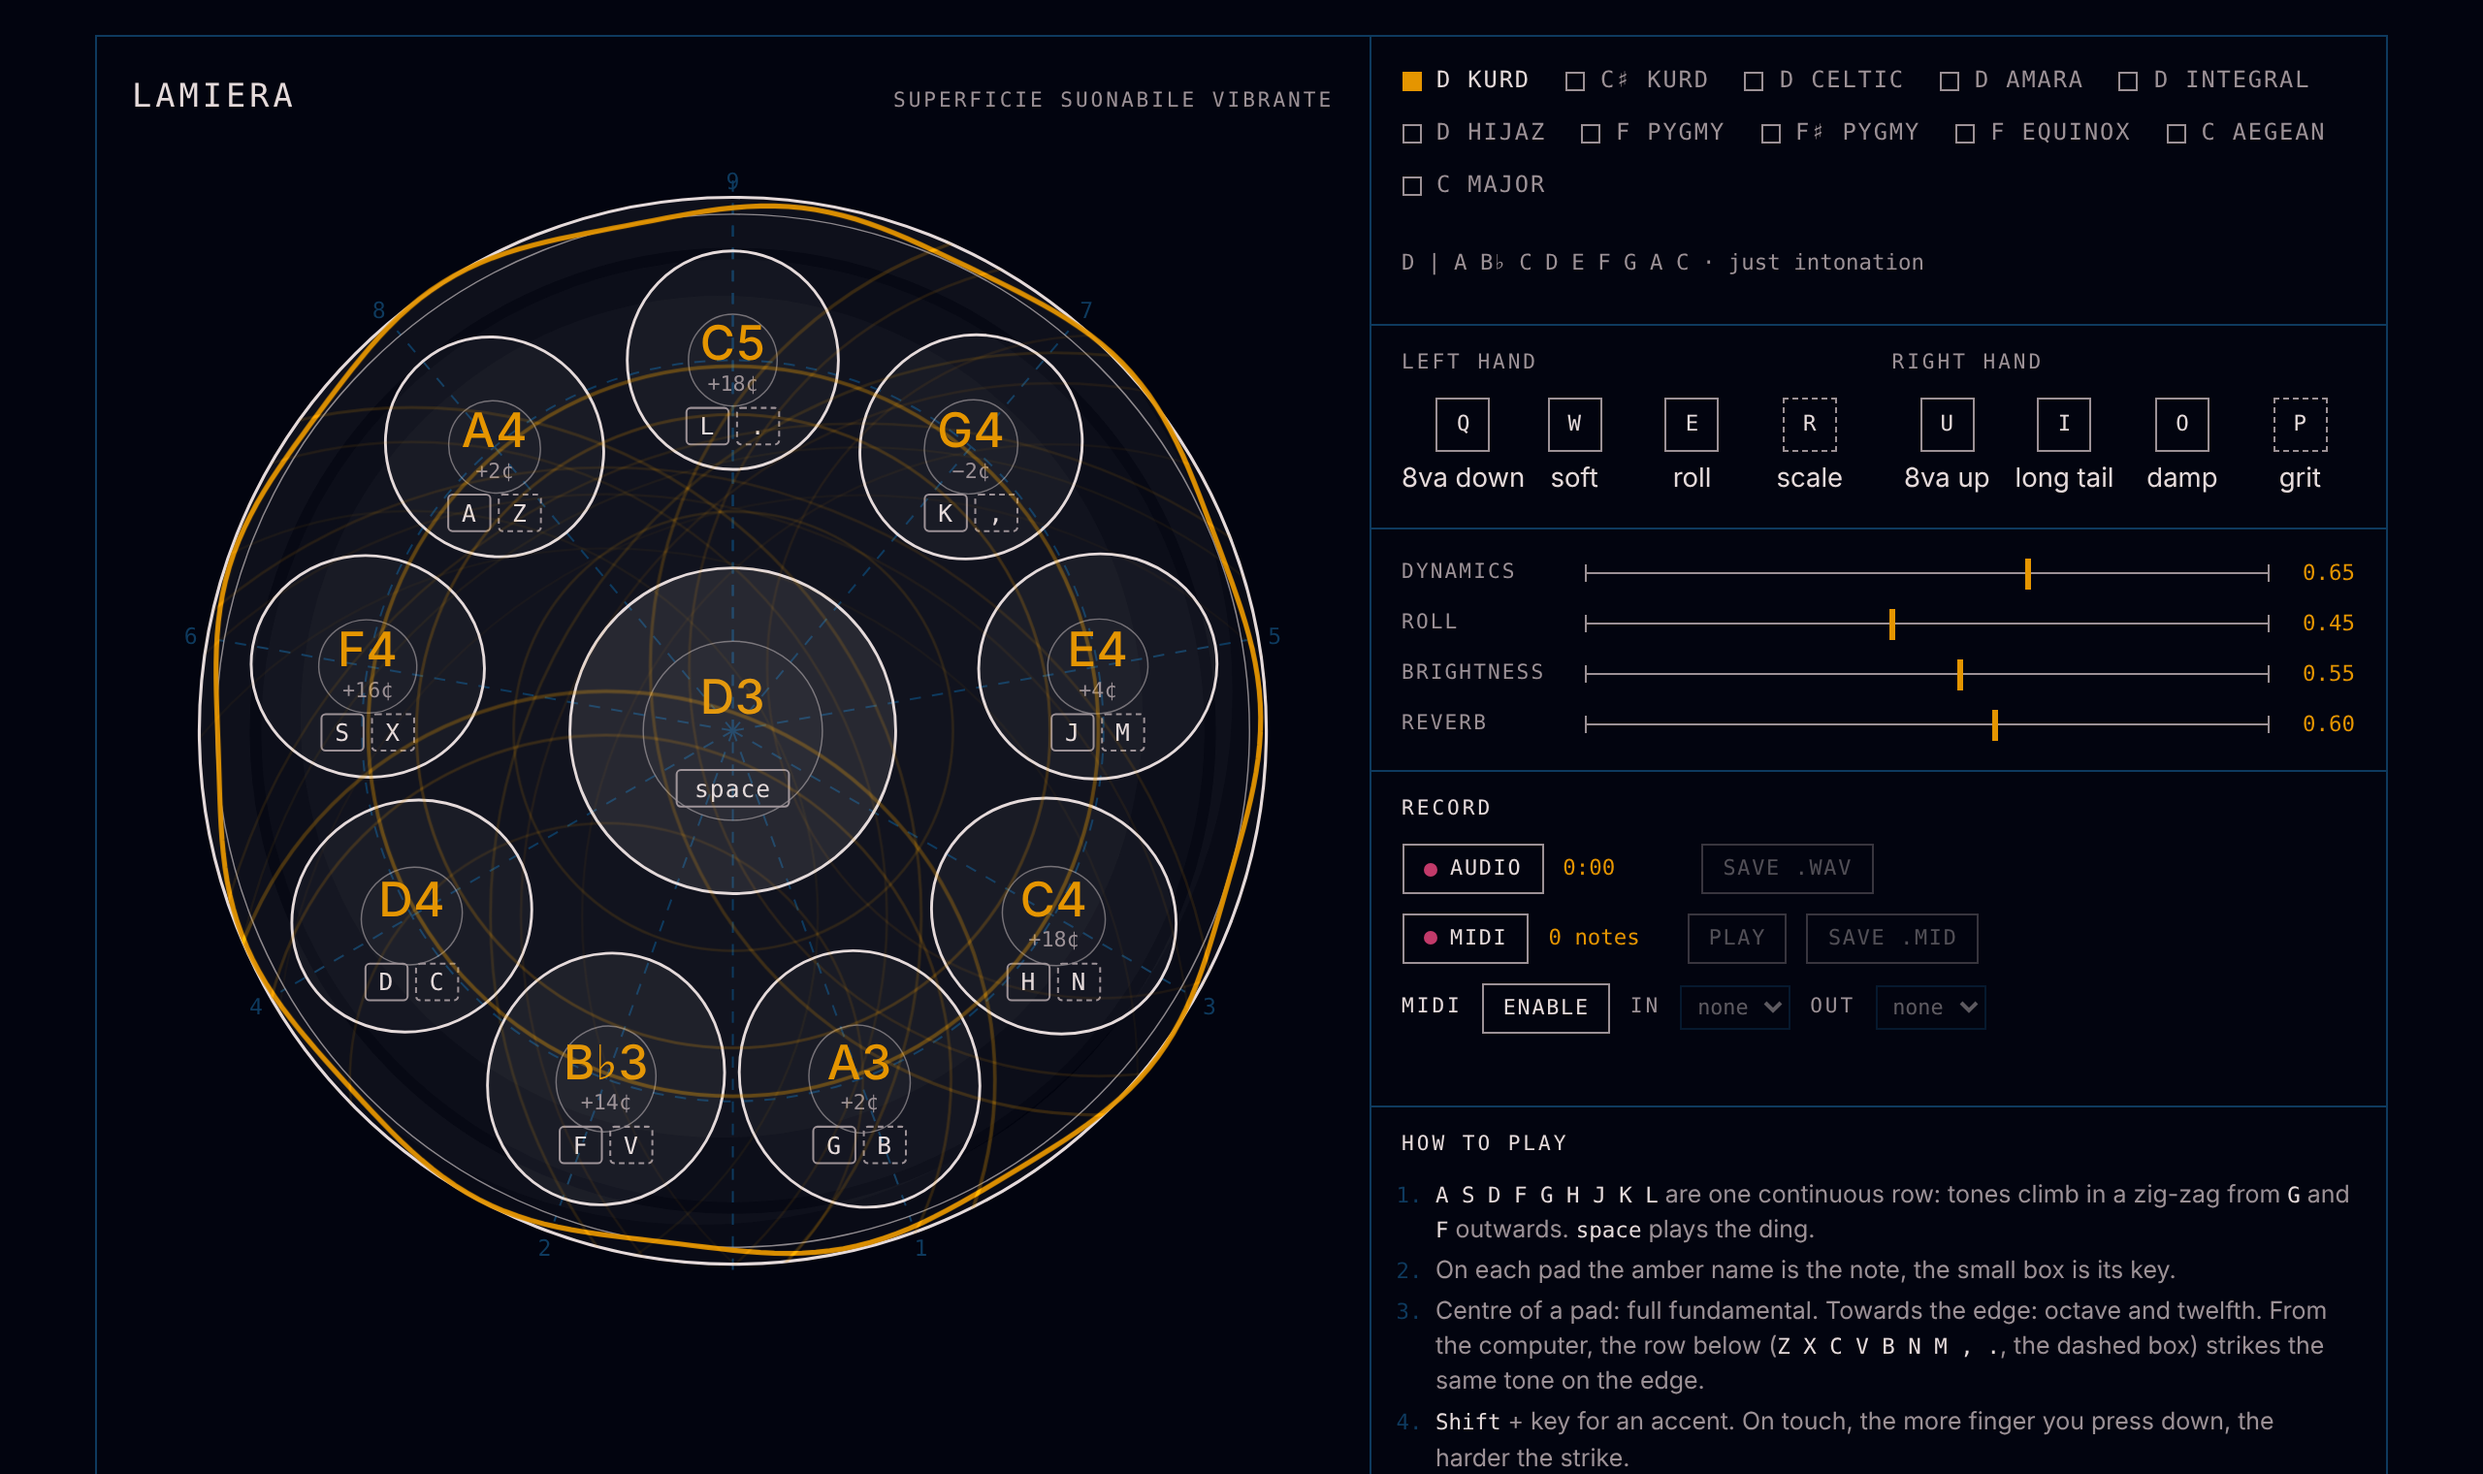
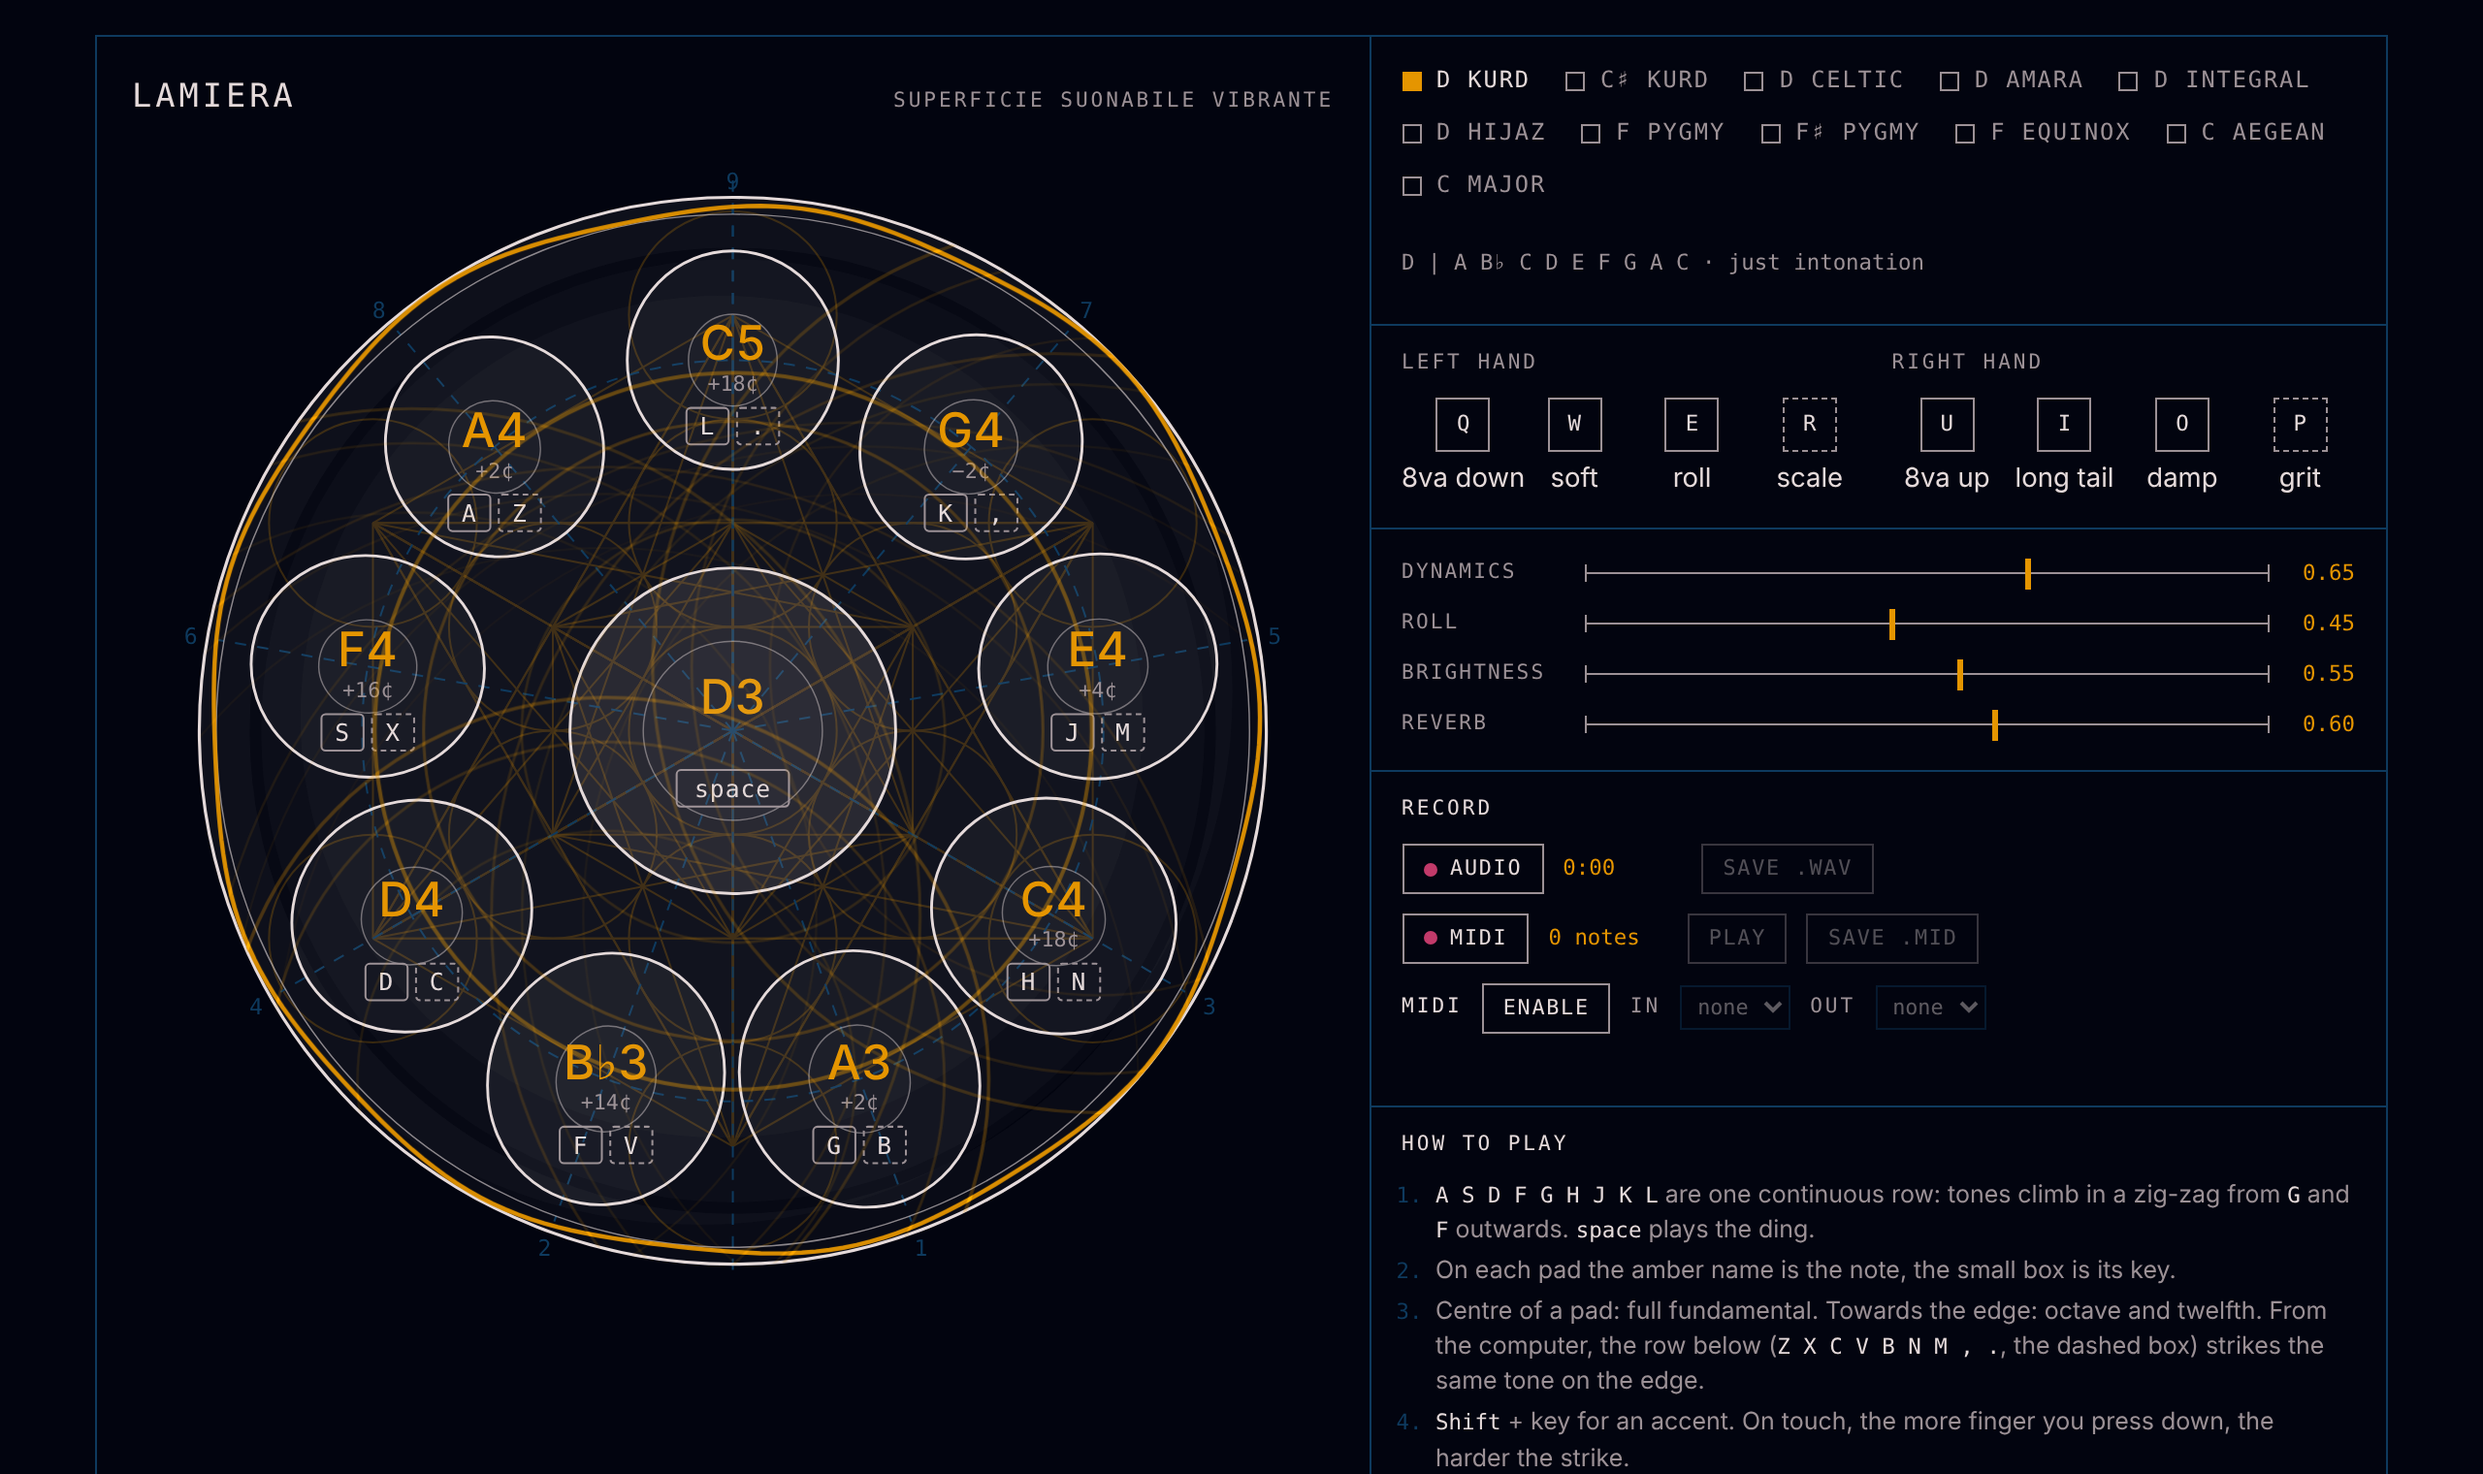
Faint amber Metatron's Cube behind the pads
Claude-Session: https://claude.ai/code/session_01PvgmHw9WPZuwuDRwTas5Yh

diff --git a/index.html b/index.html
@@ -46,6 +46,7 @@ button{font:inherit;color:inherit}
 .shoulder-band{fill:none;stroke:rgba(229,218,218,.035);stroke-width:18;pointer-events:none}
 #rim{fill:none;stroke:var(--ink);stroke-width:1.1}
 .rim2{fill:none;stroke:var(--ink);stroke-width:.5;opacity:.6;pointer-events:none}
+.metatron{fill:none;stroke:var(--amber);stroke-width:.7;opacity:.22;pointer-events:none}
 .cons{stroke:var(--navy);stroke-width:.7;stroke-dasharray:4 4;fill:none;pointer-events:none}
 .field{cursor:pointer}
 .field .shape{fill:rgba(229,218,218,.04);stroke:var(--ink);stroke-width:1;pointer-events:all;transition:fill .6s}
@@ -154,6 +155,7 @@ kbd{font-family:var(--font-mono);font-size:.9em;color:var(--ink)}
           <circle class="depth" cx="200" cy="200" r="168"/>
           <circle class="depth" cx="196" cy="195" r="150"/>
           <circle class="shoulder-band" cx="200" cy="200" r="181"/>
+          <g class="metatron" aria-hidden="true"><circle cx="200.00" cy="200.00" r="37"/><circle cx="200.00" cy="126.00" r="37"/><circle cx="264.09" cy="163.00" r="37"/><circle cx="264.09" cy="237.00" r="37"/><circle cx="200.00" cy="274.00" r="37"/><circle cx="135.91" cy="237.00" r="37"/><circle cx="135.91" cy="163.00" r="37"/><circle cx="200.00" cy="52.00" r="37"/><circle cx="328.17" cy="126.00" r="37"/><circle cx="328.17" cy="274.00" r="37"/><circle cx="200.00" cy="348.00" r="37"/><circle cx="71.83" cy="274.00" r="37"/><circle cx="71.83" cy="126.00" r="37"/><line x1="200.00" y1="200.00" x2="200.00" y2="126.00"/><line x1="200.00" y1="200.00" x2="264.09" y2="163.00"/><line x1="200.00" y1="200.00" x2="264.09" y2="237.00"/><line x1="200.00" y1="200.00" x2="200.00" y2="274.00"/><line x1="200.00" y1="200.00" x2="135.91" y2="237.00"/><line x1="200.00" y1="200.00" x2="135.91" y2="163.00"/><line x1="200.00" y1="200.00" x2="200.00" y2="52.00"/><line x1="200.00" y1="200.00" x2="328.17" y2="126.00"/><line x1="200.00" y1="200.00" x2="328.17" y2="274.00"/><line x1="200.00" y1="200.00" x2="200.00" y2="348.00"/><line x1="200.00" y1="200.00" x2="71.83" y2="274.00"/><line x1="200.00" y1="200.00" x2="71.83" y2="126.00"/><line x1="200.00" y1="126.00" x2="264.09" y2="163.00"/><line x1="200.00" y1="126.00" x2="264.09" y2="237.00"/><line x1="200.00" y1="126.00" x2="200.00" y2="274.00"/><line x1="200.00" y1="126.00" x2="135.91" y2="237.00"/><line x1="200.00" y1="126.00" x2="135.91" y2="163.00"/><line x1="200.00" y1="126.00" x2="200.00" y2="52.00"/><line x1="200.00" y1="126.00" x2="328.17" y2="126.00"/><line x1="200.00" y1="126.00" x2="328.17" y2="274.00"/><line x1="200.00" y1="126.00" x2="200.00" y2="348.00"/><line x1="200.00" y1="126.00" x2="71.83" y2="274.00"/><line x1="200.00" y1="126.00" x2="71.83" y2="126.00"/><line x1="264.09" y1="163.00" x2="264.09" y2="237.00"/><line x1="264.09" y1="163.00" x2="200.00" y2="274.00"/><line x1="264.09" y1="163.00" x2="135.91" y2="237.00"/><line x1="264.09" y1="163.00" x2="135.91" y2="163.00"/><line x1="264.09" y1="163.00" x2="200.00" y2="52.00"/><line x1="264.09" y1="163.00" x2="328.17" y2="126.00"/><line x1="264.09" y1="163.00" x2="328.17" y2="274.00"/><line x1="264.09" y1="163.00" x2="200.00" y2="348.00"/><line x1="264.09" y1="163.00" x2="71.83" y2="274.00"/><line x1="264.09" y1="163.00" x2="71.83" y2="126.00"/><line x1="264.09" y1="237.00" x2="200.00" y2="274.00"/><line x1="264.09" y1="237.00" x2="135.91" y2="237.00"/><line x1="264.09" y1="237.00" x2="135.91" y2="163.00"/><line x1="264.09" y1="237.00" x2="200.00" y2="52.00"/><line x1="264.09" y1="237.00" x2="328.17" y2="126.00"/><line x1="264.09" y1="237.00" x2="328.17" y2="274.00"/><line x1="264.09" y1="237.00" x2="200.00" y2="348.00"/><line x1="264.09" y1="237.00" x2="71.83" y2="274.00"/><line x1="264.09" y1="237.00" x2="71.83" y2="126.00"/><line x1="200.00" y1="274.00" x2="135.91" y2="237.00"/><line x1="200.00" y1="274.00" x2="135.91" y2="163.00"/><line x1="200.00" y1="274.00" x2="200.00" y2="52.00"/><line x1="200.00" y1="274.00" x2="328.17" y2="126.00"/><line x1="200.00" y1="274.00" x2="328.17" y2="274.00"/><line x1="200.00" y1="274.00" x2="200.00" y2="348.00"/><line x1="200.00" y1="274.00" x2="71.83" y2="274.00"/><line x1="200.00" y1="274.00" x2="71.83" y2="126.00"/><line x1="135.91" y1="237.00" x2="135.91" y2="163.00"/><line x1="135.91" y1="237.00" x2="200.00" y2="52.00"/><line x1="135.91" y1="237.00" x2="328.17" y2="126.00"/><line x1="135.91" y1="237.00" x2="328.17" y2="274.00"/><line x1="135.91" y1="237.00" x2="200.00" y2="348.00"/><line x1="135.91" y1="237.00" x2="71.83" y2="274.00"/><line x1="135.91" y1="237.00" x2="71.83" y2="126.00"/><line x1="135.91" y1="163.00" x2="200.00" y2="52.00"/><line x1="135.91" y1="163.00" x2="328.17" y2="126.00"/><line x1="135.91" y1="163.00" x2="328.17" y2="274.00"/><line x1="135.91" y1="163.00" x2="200.00" y2="348.00"/><line x1="135.91" y1="163.00" x2="71.83" y2="274.00"/><line x1="135.91" y1="163.00" x2="71.83" y2="126.00"/><line x1="200.00" y1="52.00" x2="328.17" y2="126.00"/><line x1="200.00" y1="52.00" x2="328.17" y2="274.00"/><line x1="200.00" y1="52.00" x2="200.00" y2="348.00"/><line x1="200.00" y1="52.00" x2="71.83" y2="274.00"/><line x1="200.00" y1="52.00" x2="71.83" y2="126.00"/><line x1="328.17" y1="126.00" x2="328.17" y2="274.00"/><line x1="328.17" y1="126.00" x2="200.00" y2="348.00"/><line x1="328.17" y1="126.00" x2="71.83" y2="274.00"/><line x1="328.17" y1="126.00" x2="71.83" y2="126.00"/><line x1="328.17" y1="274.00" x2="200.00" y2="348.00"/><line x1="328.17" y1="274.00" x2="71.83" y2="274.00"/><line x1="328.17" y1="274.00" x2="71.83" y2="126.00"/><line x1="200.00" y1="348.00" x2="71.83" y2="274.00"/><line x1="200.00" y1="348.00" x2="71.83" y2="126.00"/><line x1="71.83" y1="274.00" x2="71.83" y2="126.00"/></g>
           <g id="cons"></g>
           <circle class="rim2" cx="200" cy="200" r="184"/>
           <circle id="rim" cx="200" cy="200" r="190"/>
